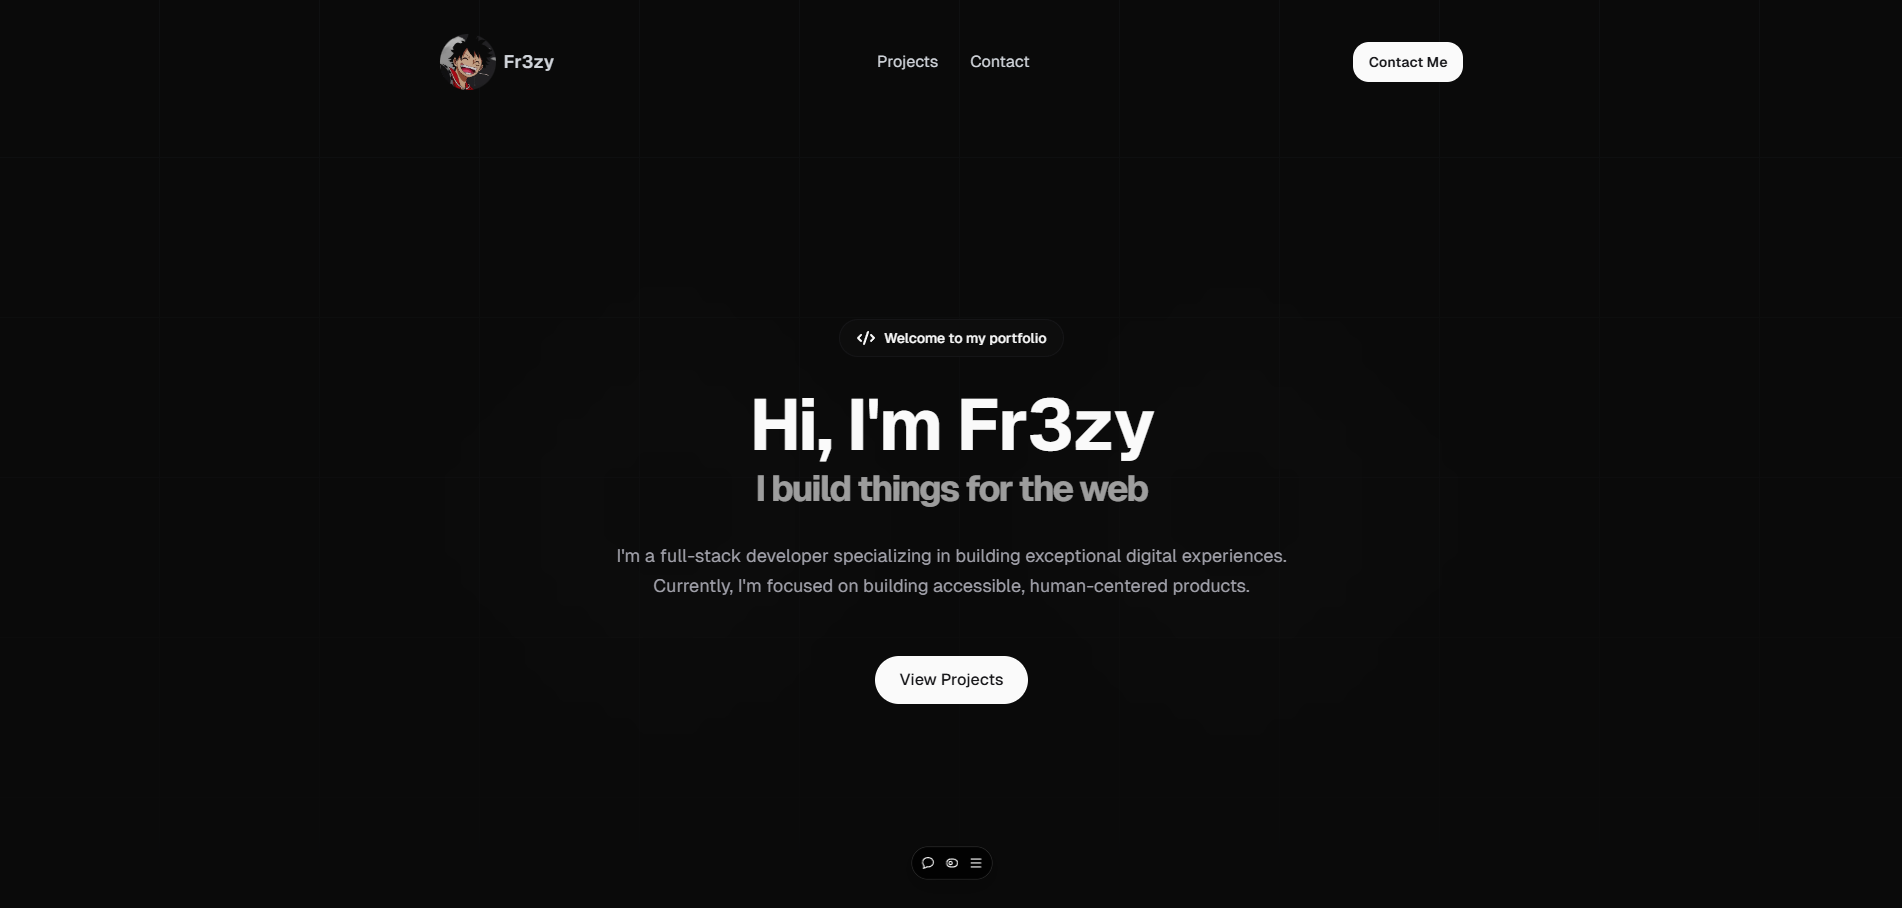
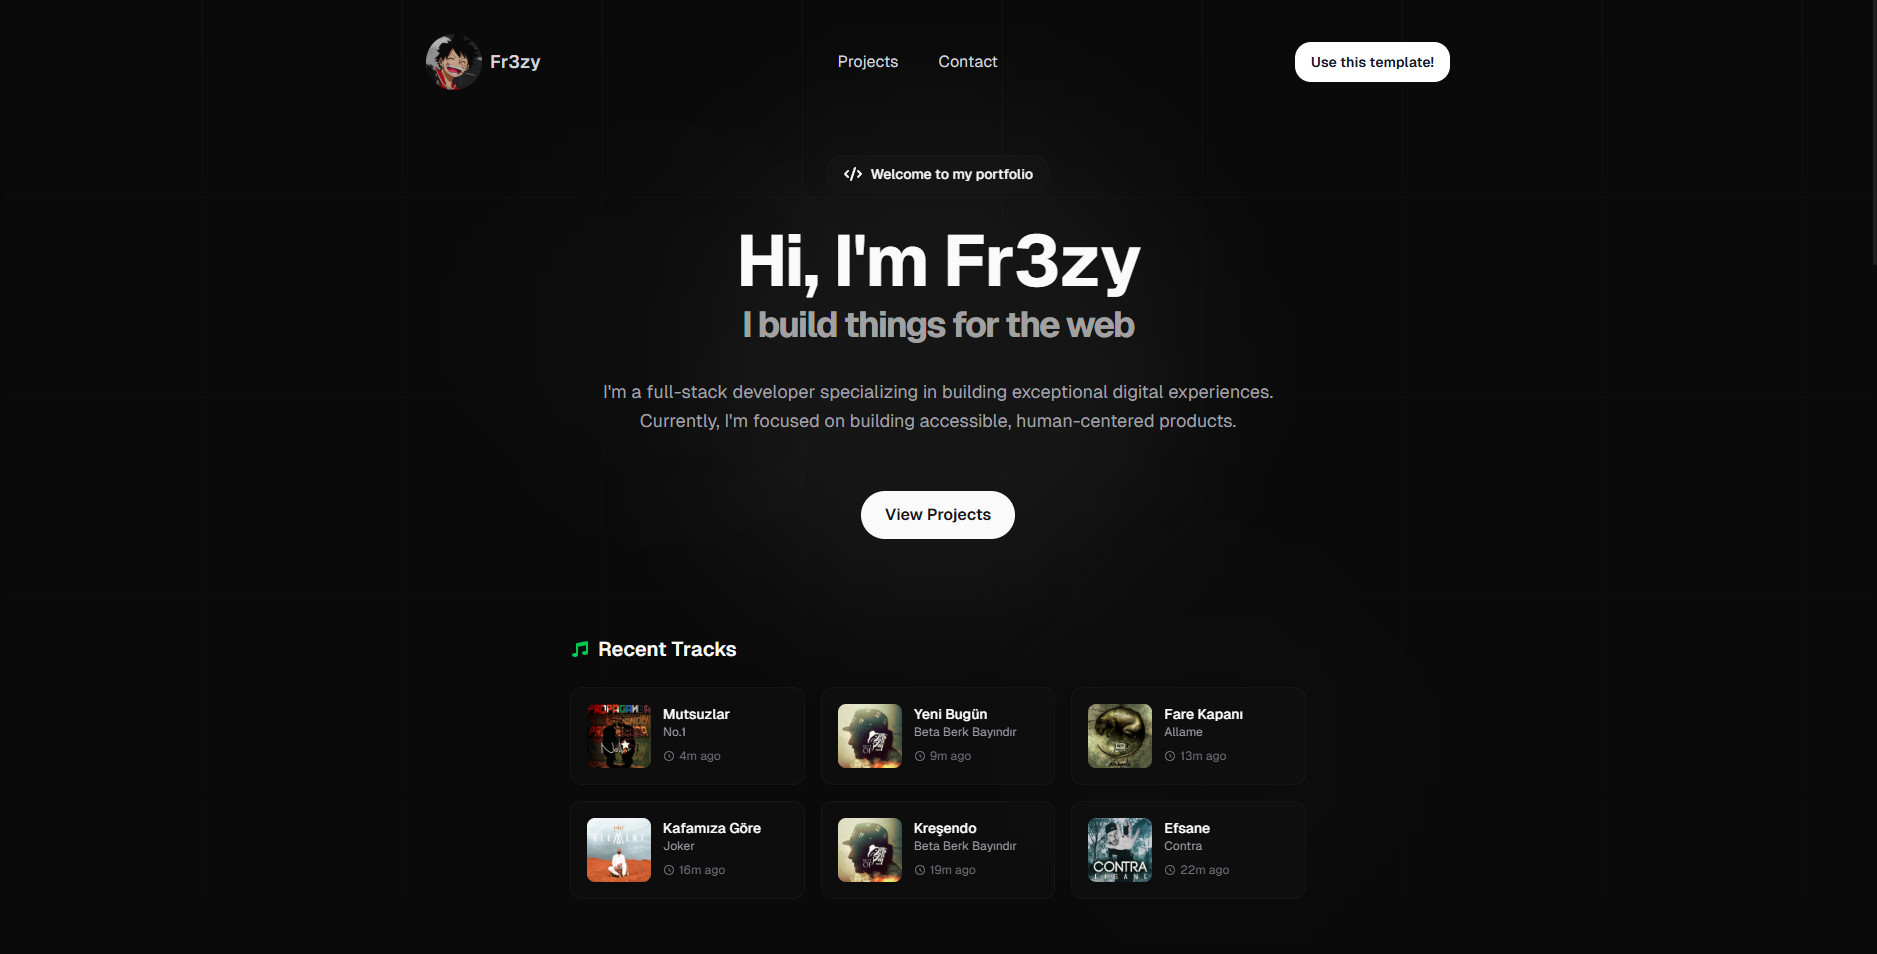
Update README with additional demo screenshots

diff --git a/README.md b/README.md
@@ -93,7 +93,10 @@ A modern and responsive portfolio website to showcase my projects, skills, and e
 That's it! Your recent Spotify tracks will now appear in your portfolio. 🎵
 
 
-![Demo](images/Screenshot_1.png)
+![Demo 1](images/Screenshot_1.png)
+![Demo 1](images/Screenshot_4.png)
+![Demo 2](images/Screenshot_2.png)
+![Demo 3](images/Screenshot_3.png)
 
 # Project Setup with Docker
 